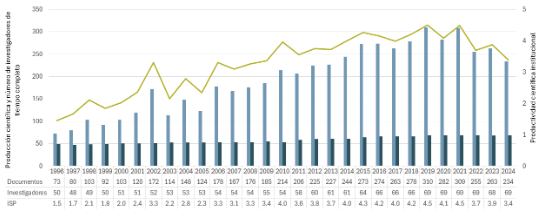
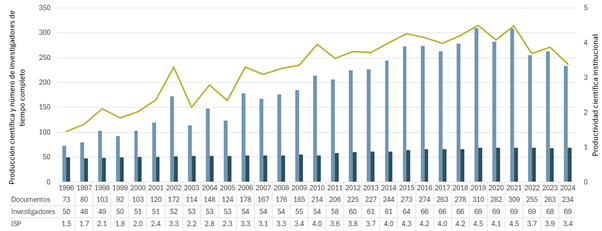
[add]: mejorando calidad en imagenes

diff --git a/pages/1_Evolución_del_Volumen_de_la_Producción_Científica.py b/pages/1_Evolución_del_Volumen_de_la_Producción_Científica.py
@@ -80,26 +80,6 @@ with metric_col4:
 #PESTAÑAS
 tab1, tab2, tab3 = st.tabs([f"1. {sec_one_title}", f"2. {sec_two_title}", f"3. {sec_three_title}"])
 
-# GENERACIÓN DE CONTENIDO GRÁFICO MEDIANTE MODELOS DE LENGUAJE
-#model = lms.llm("openai/gpt-oss-20b")
-
-# Define los mensajes
-#messages = [
-#    {"role": "system", "content": "Eres un científico de datos experto en el análisis de texto para la creación de gráficas y tablas."},
-#    {"role": "user", "content": """
-#    Describe y analiza el siguiente texto y genera una tabla (Fig.1.) con los datos numéricos que se mencionan:
-#    Se recuperaron un total de 6153 documentos, publicados desde 1968 hasta el 2024. Todos los documentos fueron exportados a R haciendo uso del paquete Biblioemtrix.
-#    De este total, 66 no fueron recuperados desde Incites por corresponder a documentos publicados antes de 1980.
-#    Una descripción general de los documentos se observa en la Fig.1. La colección muestra una producción científica creciente (tasa anual de 8.88%) y altamente colaborativa,
-#    con una importante participación internacional (56.17%) y un nivel considerable de citación promedio por artículo (22.14).
-#    La alta cantidad de autores y referencias indica una red científica activa y extensa. Se publica en 707 fuentes diferentes.
-#    Con 21666 autores, 102 autores por documento y 126817 referencias.
-#    """}
-#]
-
-# Genera la respuesta
-#result = model.respond(messages=messages, temperature=0.2)
-
 # =========================================================================
 # PESTAÑA 1
 # =========================================================================
@@ -107,24 +87,23 @@ with tab1:
     st.subheader("Análisis de la Colección Global vs. Sin Grandes Colaboraciones")
 
     #Fila 1
-    col1, col2 = st.columns([0.6, 1.4])
+    col1, col2 = st.columns([1.6, 1.4])
     with col1:
         st.markdown(f"**{sec_one_text1}**")
         st.markdown(sec_one_text2)
     with col2:
         display_image(image_one_path, image_one_caption)
-        #print(result)
 
     st.markdown("---")
 
     #Fila 2
-    col3, col4 = st.columns([1.4, 0.6])
-    with col3:
-        st.markdown("### Colección Principal (Artículos y Reviews, Sin Grandes Colaboraciones)")
-        st.markdown(sec_one_text3)
-        st.markdown(sec_one_text4)
-    with col4:
-        display_image(image_two_path, image_two_caption)
+    #col3, col4 = st.columns([1.4, 1.6])
+   # with col3:
+    st.markdown("### Colección Principal (Artículos y Reviews, Sin Grandes Colaboraciones)")
+    st.markdown(sec_one_text3)
+    st.markdown(sec_one_text4)
+#    with col4:
+    display_image(image_two_path, image_two_caption)
 
 # =========================================================================
 # PESTAÑA 2
@@ -159,7 +138,7 @@ with tab3:
     col1, col2 = st.columns([0.6, 1.4])
     with col1:
         st.markdown(sec_three_text1)
-      #  st.markdown(sec_three_text2)
+
     with col2:
         display_image(image_six_path, image_six_caption)
 

diff --git a/pages/3_Análisis_de_la_Colaboración.py b/pages/3_Análisis_de_la_Colaboración.py
@@ -110,8 +110,14 @@ with tab1:
     with col1_2:
         display_image(image_one_path, caption=image_one_caption)
 
-    st.markdown(sec_one_text4)
-    display_image(image_two_path, caption=image_two_caption)
+    col1_3, col1_4 = st.columns([3, 2])
+
+    with col1_3:
+        display_image(image_two_path, caption=image_two_caption)
+
+    with col1_4:
+        st.markdown(sec_one_text4)
+    
 
 # =========================================================================
 # PESTAÑA 2
@@ -163,6 +169,11 @@ with tab3:
 # =========================================================================
 with tab4:
     st.subheader(sec_four_title)
-    st.markdown(sec_four_text1)
 
-    display_image(image_nine_path, "Distribución de Género en la Red de Colaboración")
+    col1_1, col1_2 = st.columns([2, 2])
+
+    with col1_1: 
+        st.markdown(sec_four_text1)
+
+    with col1_2: 
+        display_image(image_nine_path, "Distribución de Género en la Red de Colaboración")

diff --git a/pages/4_Caracterización_Temática_de_la_Producción_Científica.py b/pages/4_Caracterización_Temática_de_la_Producción_Científica.py
@@ -116,7 +116,7 @@ with tab2:
     with col2_4:
         display_image(image_seven_path, "Gráfico de evolución de categorías 2")
 
-    st.divider()
+    
 
 # =========================================================================
 # PESTAÑA 3
